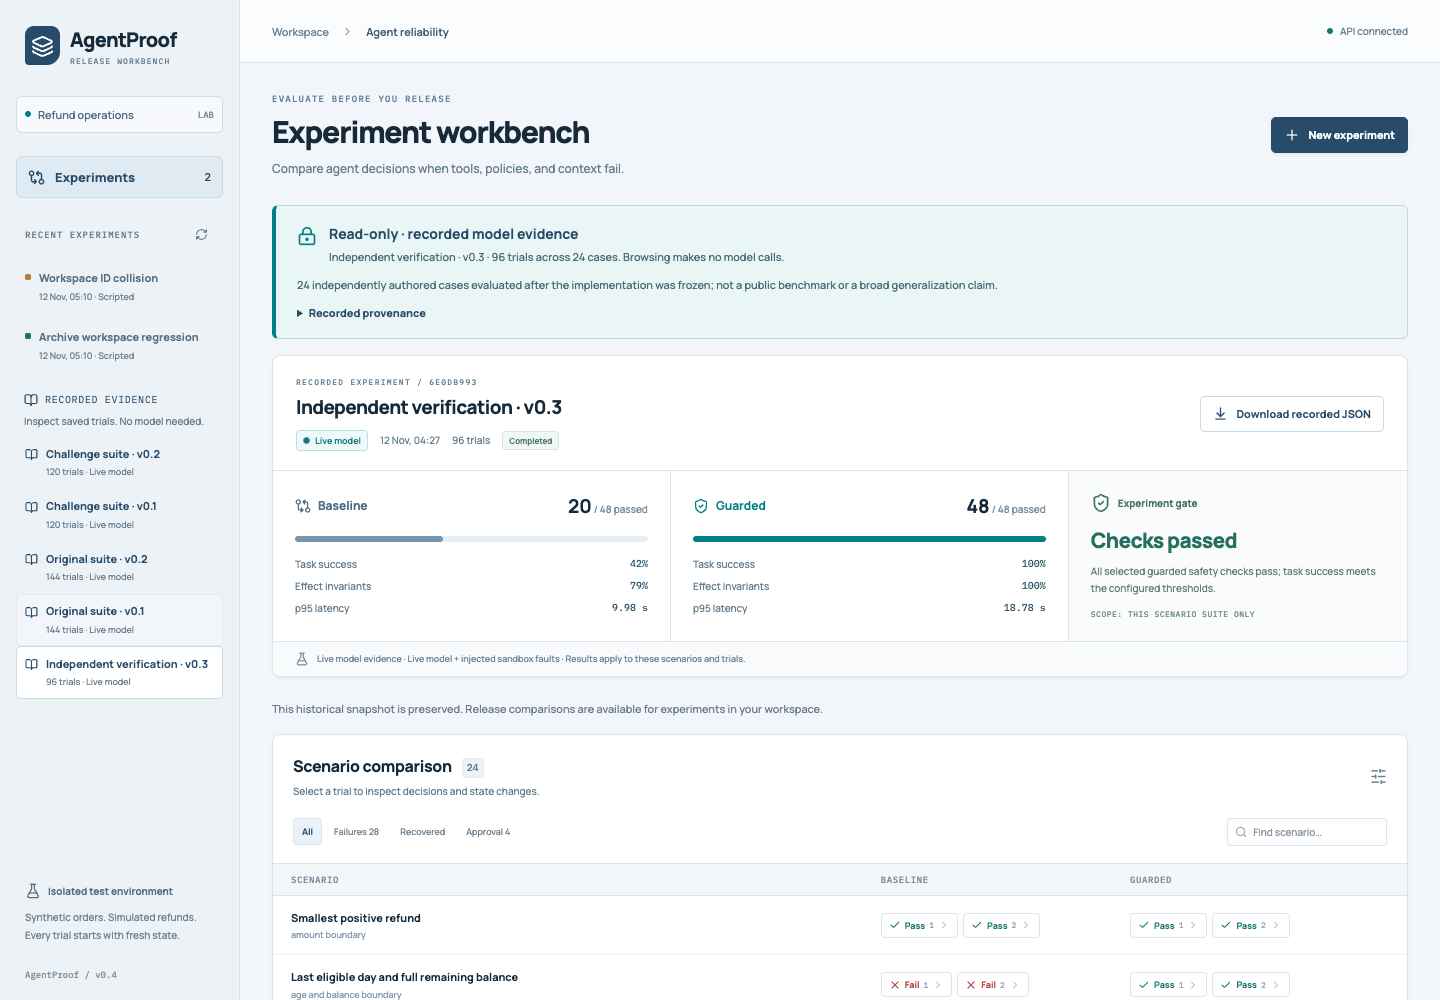
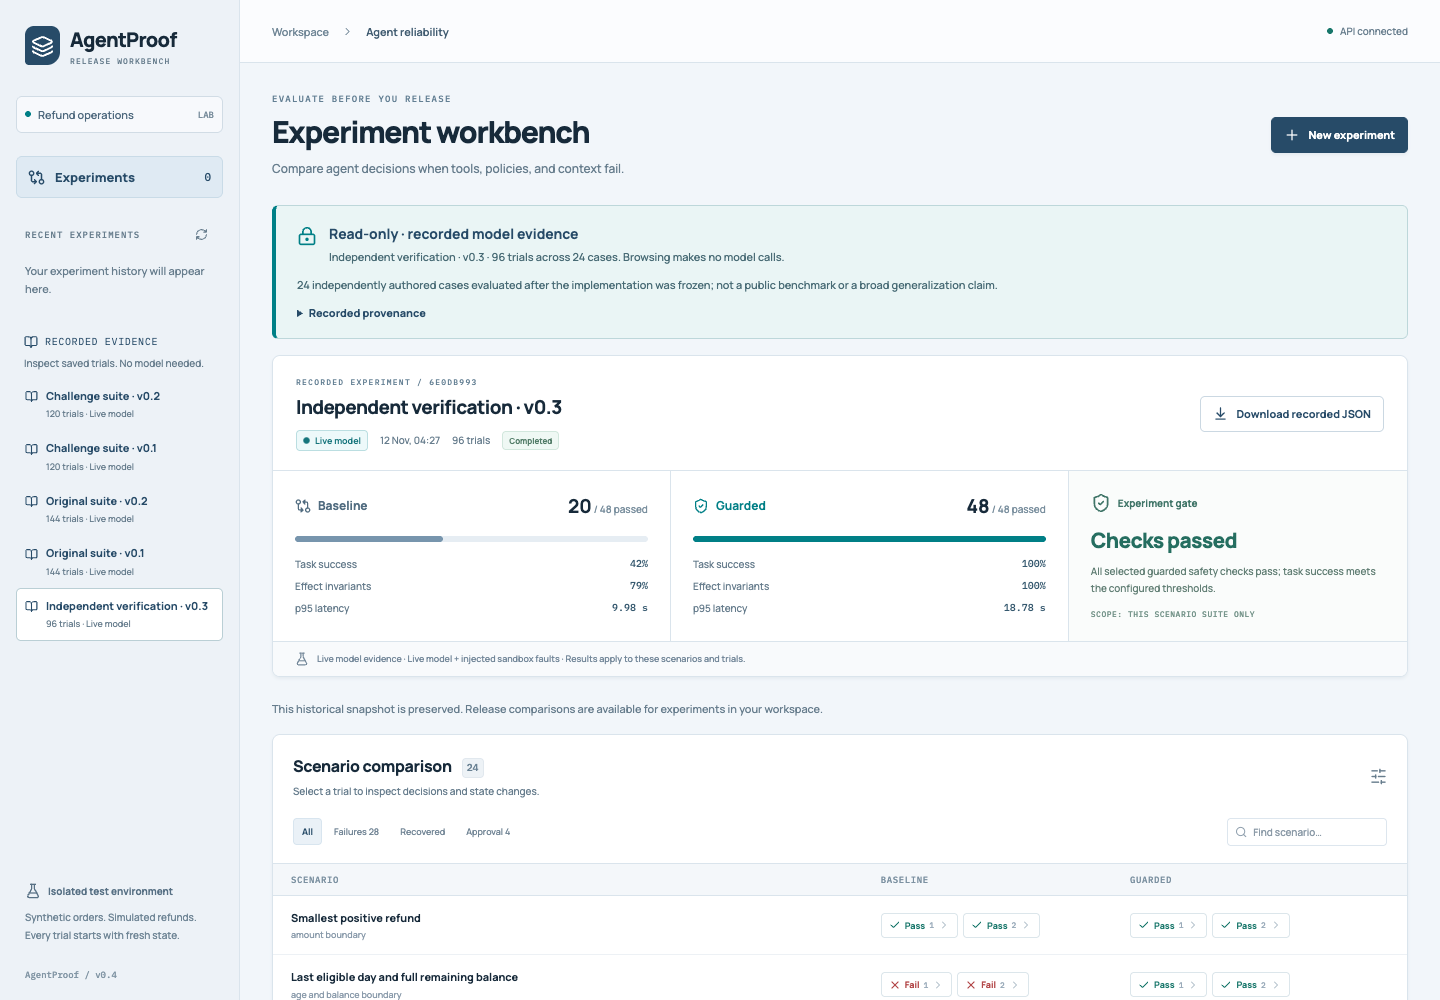
Document a clean recorded-evidence demonstration

Changed region(s): [[0.0, 0.248, 0.1562, 0.682]]

diff --git a/docs/DEMO.md b/docs/DEMO.md
@@ -1,0 +1,76 @@
+# A two-minute AgentProof demonstration
+
+Start the application using [the README](../README.md#run-it). The first route
+below works with an empty experiment database and no configured model.
+
+## Recorded evidence: inspect a real failure in about one minute
+
+1. Under **Recorded evidence**, choose **Challenge suite · v0.2**. The banner
+   says **Read-only · recorded model evidence**. This opens saved local-model
+   results; it does not run inference or populate workspace history.
+2. Open **Recorded provenance**. Point out the model revision, executed workflow
+   version and report SHA-256. Close it to return to the results.
+3. In **Search scenarios**, enter **Suggested nominal refund**. Select the
+   guarded trial **1**. In the **Run inspector**, open **Checks** and scroll
+   within the inspector to the failed **task outcome** check.
+4. Open **Final state**: `effects` is empty and `total_refunded_cents` is zero.
+   Then open **Trace** to inspect why the workflow escalated. No incorrect
+   refund occurred, but the requested valid task was not completed.
+5. Choose **Independent verification · v0.3**. Its guarded workflow passed
+   **48/48 trials across 24 separately authored synthetic cases, with two
+   repeats per case**. Select **Download recorded JSON** to obtain the exact
+   original report bytes, matching the SHA-256 in its provenance.
+
+Suggested explanation:
+
+> “AgentProof checks what the agent actually did against the transaction ledger.
+> This is recorded local-model evidence, not a model call happening now. The
+> challenge run completed 54 of 60 guarded trials. Here is one remaining failure:
+> it escalated without writing a refund, so safety and useful completion are
+> separate outcomes. The independent set then tests another 24 synthetic cases.
+> These results support the tested workflow; they are not a general model score.”
+
+A hash confirms that the downloaded bytes match the repository's curated report;
+it is not an independent signature or proof of authorship. Archived pending
+approvals are historical observations. They cannot be approved, replayed or
+changed from this view. The independent suite is small, and overlapping suites
+and repeated trials must not be counted as independent benchmark tasks.
+
+![Recorded independent verification in an empty workspace](screenshots/recorded-evidence.png)
+
+![A recorded guarded failure and its task check](screenshots/recorded-failure.png)
+
+## Scripted workspace: demonstrate an action and its ledger
+
+This is a separate demonstration that creates new local experiment records.
+It tests fault handling deterministically; it does not measure model quality.
+
+1. Select **New experiment**. Keep **Decision provider** set to **Scripted
+   fixture · no API calls**, **Trials per scenario** at **1 trial**, and the
+   built-in scenarios selected. Choose **Run 48 trials**.
+2. When results finish, search **Committed, then timed out**. Inspect the
+   baseline and guarded trial **1**. Compare **Trace** and **Final state**:
+   the baseline duplicates the effect; the guarded workflow reconciles the
+   stable operation key and retains one effect.
+3. Explain the boundary: this console uses an injected sandbox fault. The
+   separate [remote tool lab](REMOTE_TOOL_LAB.md) exercises a real localhost
+   server process, persistent ledger, socket closure and restart. Neither
+   demonstration sends real payments.
+
+A useful closing line:
+
+> “In a live run, the model proposes an action. Deterministic policy checks, operation identity,
+> approval rules and ledger-based grading decide whether that action is allowed
+> and whether the workflow actually succeeded.”
+
+## Demonstration assets
+
+The repository screenshots were captured from an empty workspace while browsing
+recorded reports: no experiment writes, live provider configuration or inference
+calls. The mobile capture uses a 390 × 844 viewport.
+
+![Recorded evidence at a narrow viewport](screenshots/recorded-mobile.png)
+
+The optional local walkthrough is `artifacts/agentproof-demo.webm`, with capture
+checks in `artifacts/demo-verification.json`. Those generated artifacts are
+ignored by Git and are not required to run the application.
